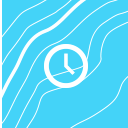
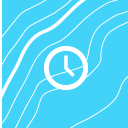
Navbar Tweak
Tweaked position of the navbar on the iPad, moved the clock icon down a
couple px, removed margin between list items on the degree pages on the
website because it made Rob angry.

Changed region(s): [[0.3438, 0.3438, 0.6875, 0.5], [0.3438, 0.5312, 0.6875, 0.7188], [0.5, 0.5, 0.5938, 0.5938]]

diff --git a/Web App/public/javascripts/wookmark.js b/Web App/public/javascripts/wookmark.js
@@ -28,7 +28,7 @@
     itemWidth: 0,
     flexibleWidth: 0,
     resizeDelay: 50,
-    onLayoutChanged: undefined
+    onLayoutChanged: undefined,
   };
 
   Wookmark = (function(options) {

diff --git a/iOS App/Catalog/main.m b/iOS App/Catalog/main.m
@@ -1,4 +1,4 @@
-//
+    //
 //  main.m
 //  Catalog
 //
